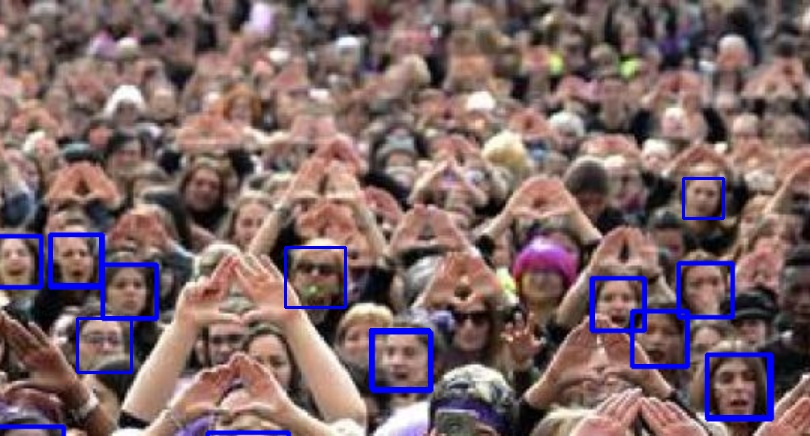
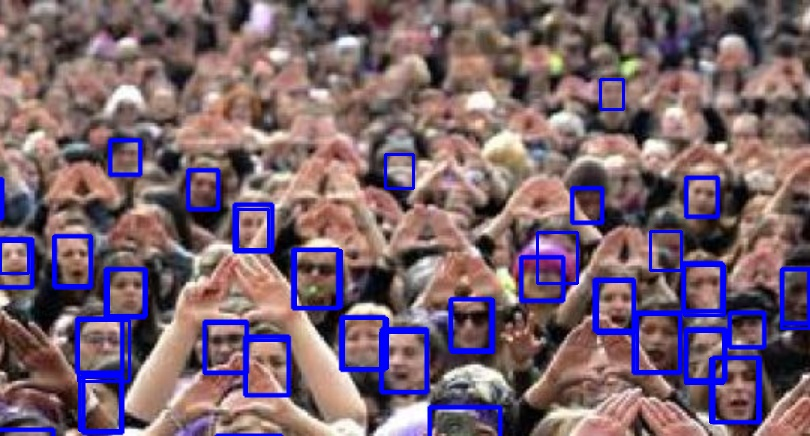
pruebaretina1.1

diff --git a/PruebasLibrerias/pruebaretina.py b/PruebasLibrerias/pruebaretina.py
@@ -1,0 +1,79 @@
+import cv2
+import numpy as np
+import os
+from retinaface import RetinaFace
+
+# Configuración de rutas
+input_image_path = r'C:\Users\kendr\OneDrive\Escritorio\ProeyectoIA\dfacescan\ImagenesPrueba\img2.jpg'
+output_directory = r'C:\Users\kendr\OneDrive\Escritorio\ProeyectoIA\dfacescan\PruebasLibrerias\ImagenesProcesadas'
+
+# Crear directorio de salida si no existe
+if not os.path.exists(output_directory):
+    os.makedirs(output_directory)
+
+# Cargar la imagen
+image = cv2.imread(input_image_path)
+height, width = image.shape[:2]
+
+# Detección de rostros en la imagen completa
+faces_full_image = RetinaFace.detect_faces(input_image_path)
+
+# Dibujar recuadros en los rostros detectados en la imagen completa
+for key in faces_full_image.keys():
+    face = faces_full_image[key]
+    facial_area = face["facial_area"]
+    cv2.rectangle(image, (facial_area[0], facial_area[1]), (facial_area[2], facial_area[3]), (255, 0, 0), 2)
+
+# Guardar la imagen completa con los recuadros dibujados
+full_image_filename = os.path.join(output_directory, 'full_image_with_boxes.jpg')
+cv2.imwrite(full_image_filename, image)
+
+# Definir las secciones de la imagen (4 secciones)
+sections = [
+    image[0:height//2, 0:width//2],       # Sección superior izquierda
+    image[0:height//2, width//2:width],   # Sección superior derecha
+    image[height//2:height, 0:width//2],  # Sección inferior izquierda
+    image[height//2:height, width//2:width]  # Sección inferior derecha
+]
+
+# Procesar cada sección
+processed_sections = []
+for i, section in enumerate(sections):
+    # Hacer zoom en la sección
+    zoom_factor = 1.5
+    zoomed_section = cv2.resize(section, None, fx=zoom_factor, fy=zoom_factor)
+
+    # Guardar la sección ampliada con zoom antes de la detección de rostros
+    zoomed_section_filename_before = os.path.join(output_directory, f'section_zoom_{i+1}_before_detection.jpg')
+    cv2.imwrite(zoomed_section_filename_before, zoomed_section)
+
+    # Detectar rostros en la sección ampliada con zoom usando RetinaFace
+    faces = RetinaFace.detect_faces(zoomed_section_filename_before)
+
+    # Dibujar recuadros en los rostros detectados
+    for key in faces.keys():
+        face = faces[key]
+        facial_area = face["facial_area"]
+        cv2.rectangle(zoomed_section, (facial_area[0], facial_area[1]), (facial_area[2], facial_area[3]), (255, 0, 0), 2)
+
+    # Guardar la sección ampliada con zoom y recuadros dibujados
+    zoomed_section_filename = os.path.join(output_directory, f'section_zoom_{i+1}.jpg')
+    cv2.imwrite(zoomed_section_filename, zoomed_section)
+
+    # Redimensionar la sección procesada a su tamaño original
+    processed_section = cv2.resize(zoomed_section, (section.shape[1], section.shape[0]))
+
+    # Guardar la sección procesada en la lista
+    processed_sections.append(processed_section)
+
+# Unir las secciones en una sola imagen
+top_half = np.hstack((processed_sections[0], processed_sections[1]))
+bottom_half = np.hstack((processed_sections[2], processed_sections[3]))
+final_image = np.vstack((top_half, bottom_half))
+
+# Guardar la imagen final con los recuadros dibujados en las secciones
+final_image_filename = os.path.join(output_directory, 'final_combined_image_with_boxes.jpg')
+cv2.imwrite(final_image_filename, final_image)
+
+print(f"Imagen completa con recuadros guardada en: {full_image_filename}")
+print(f"Imagen final combinada con recuadros guardada en: {final_image_filename}")

diff --git a/face-detection/README.md b/face-detection/README.md
@@ -35,6 +35,4 @@ pip install retina-face
 --Tensorflow
 conda install -c conda-forge cudatoolkit=11.2 cudnn=8.1.0
 python -m pip install "tensorflow<2.11"
-
-
 ```
